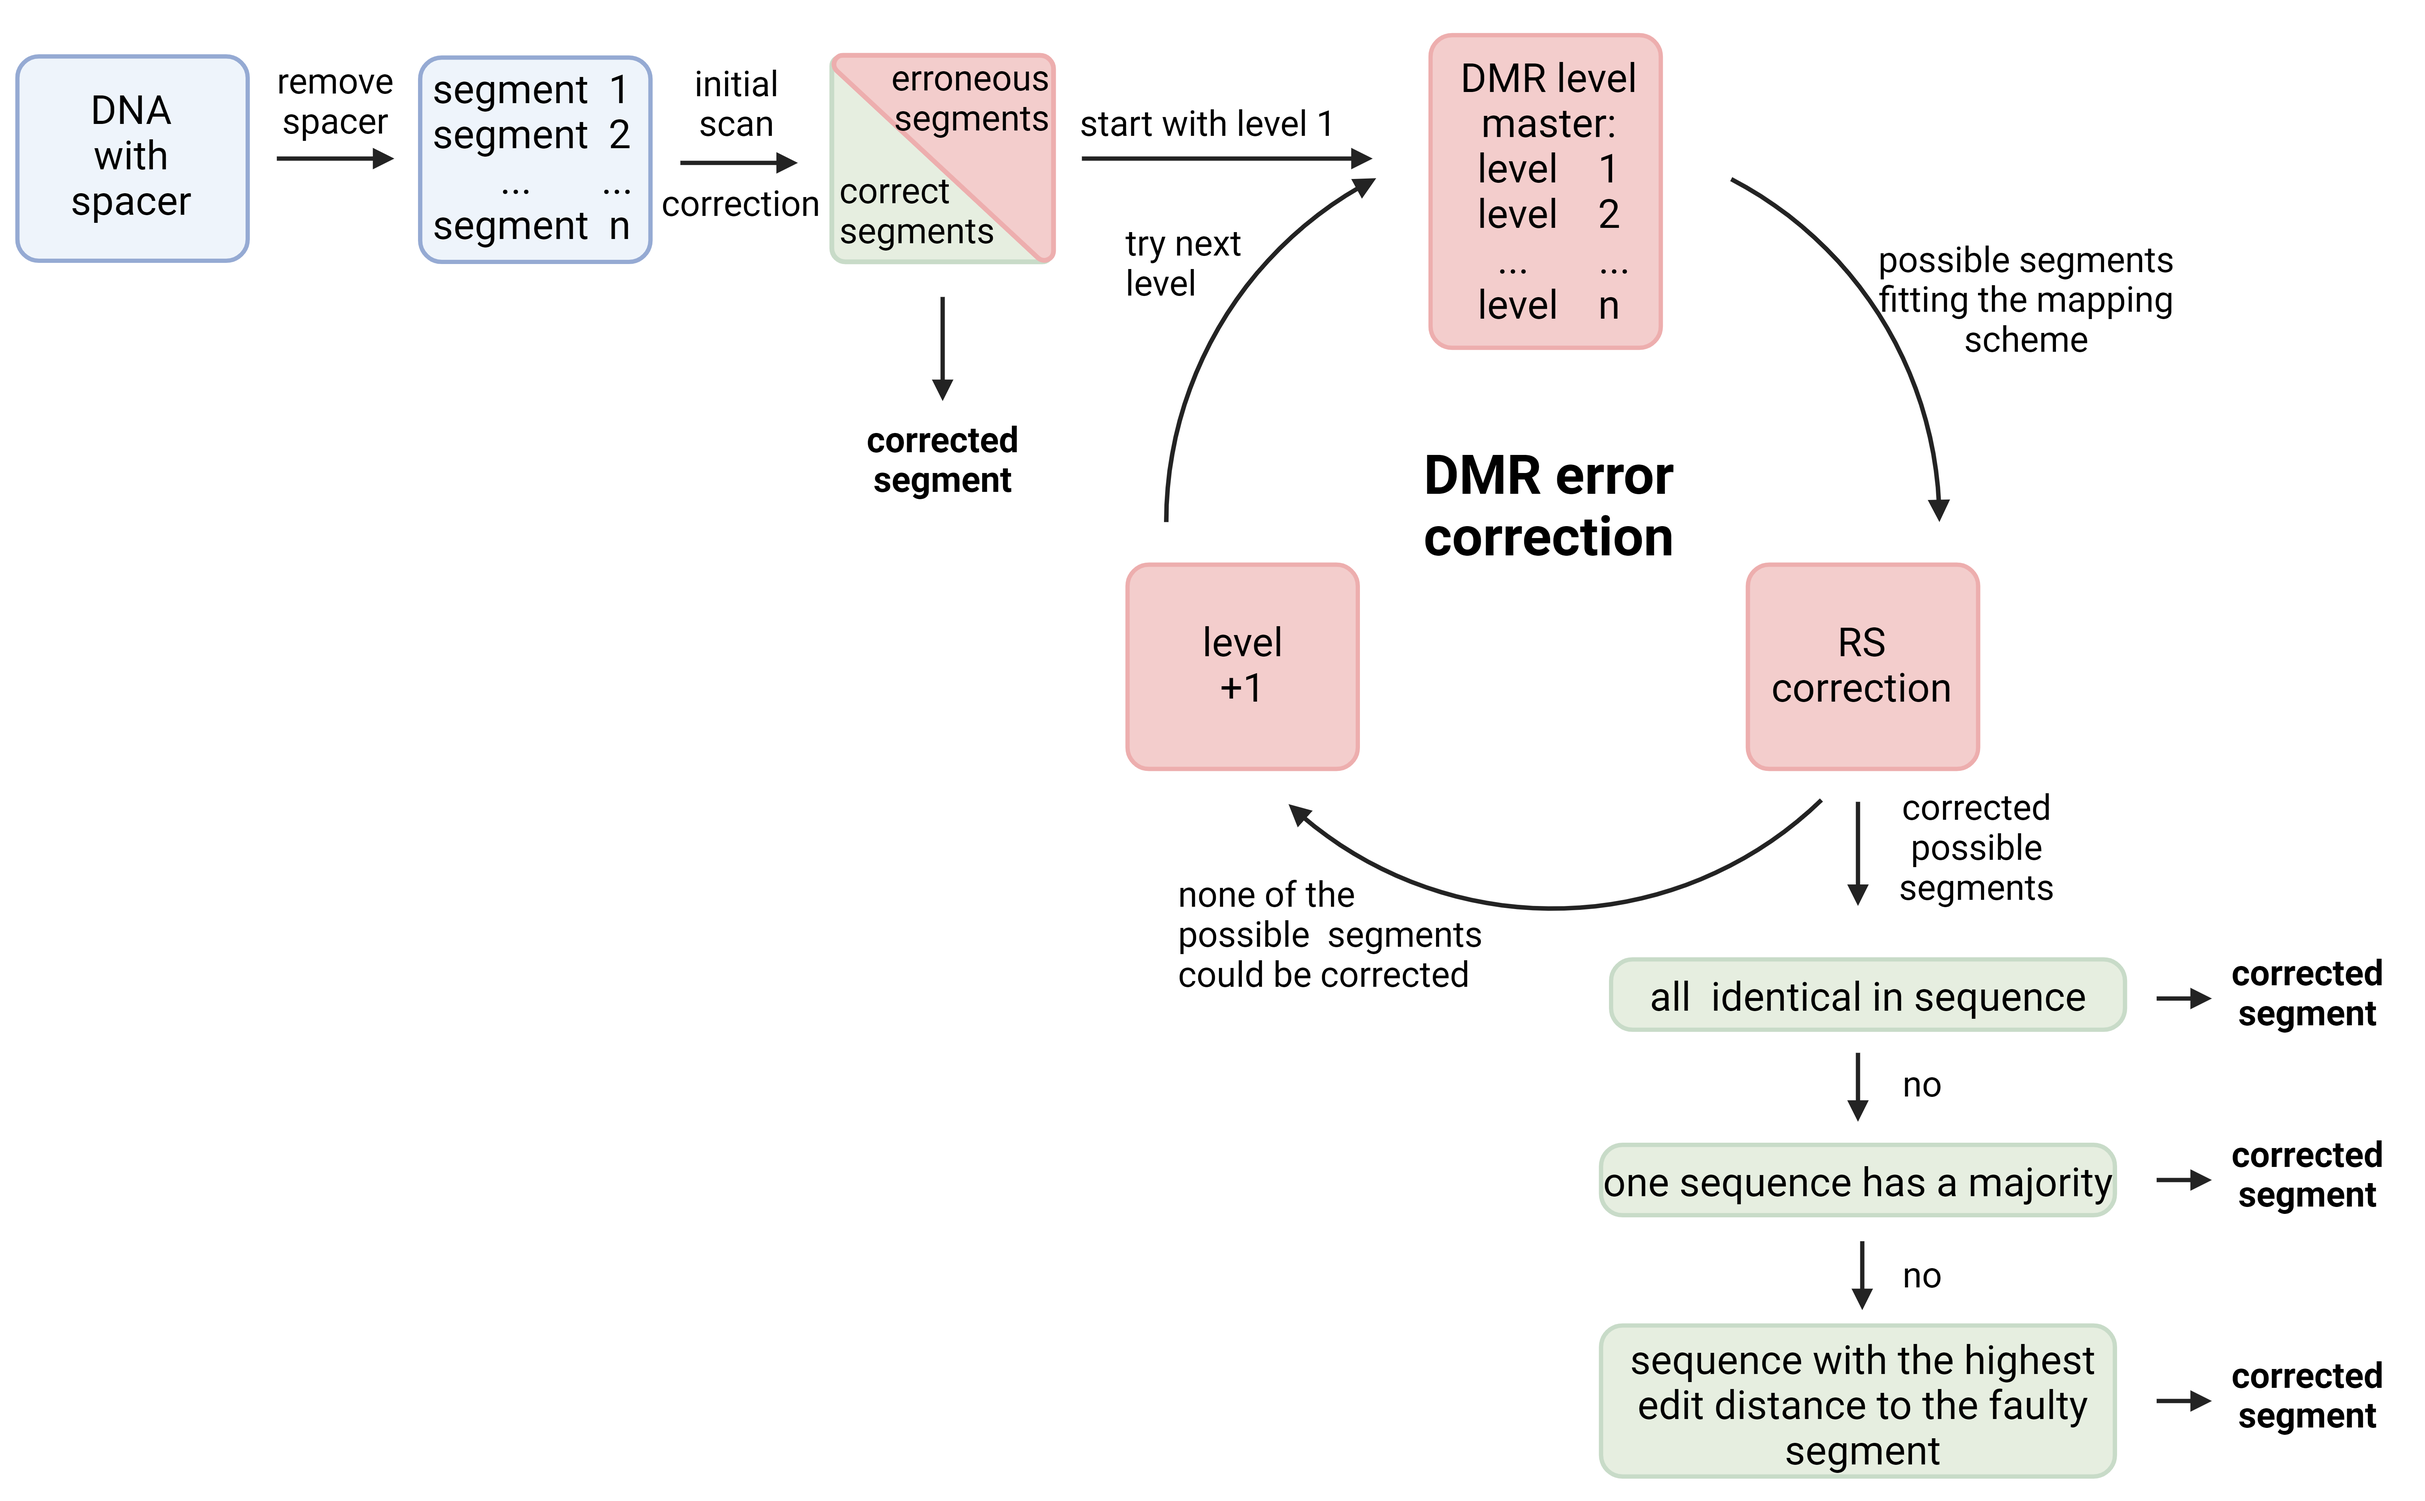
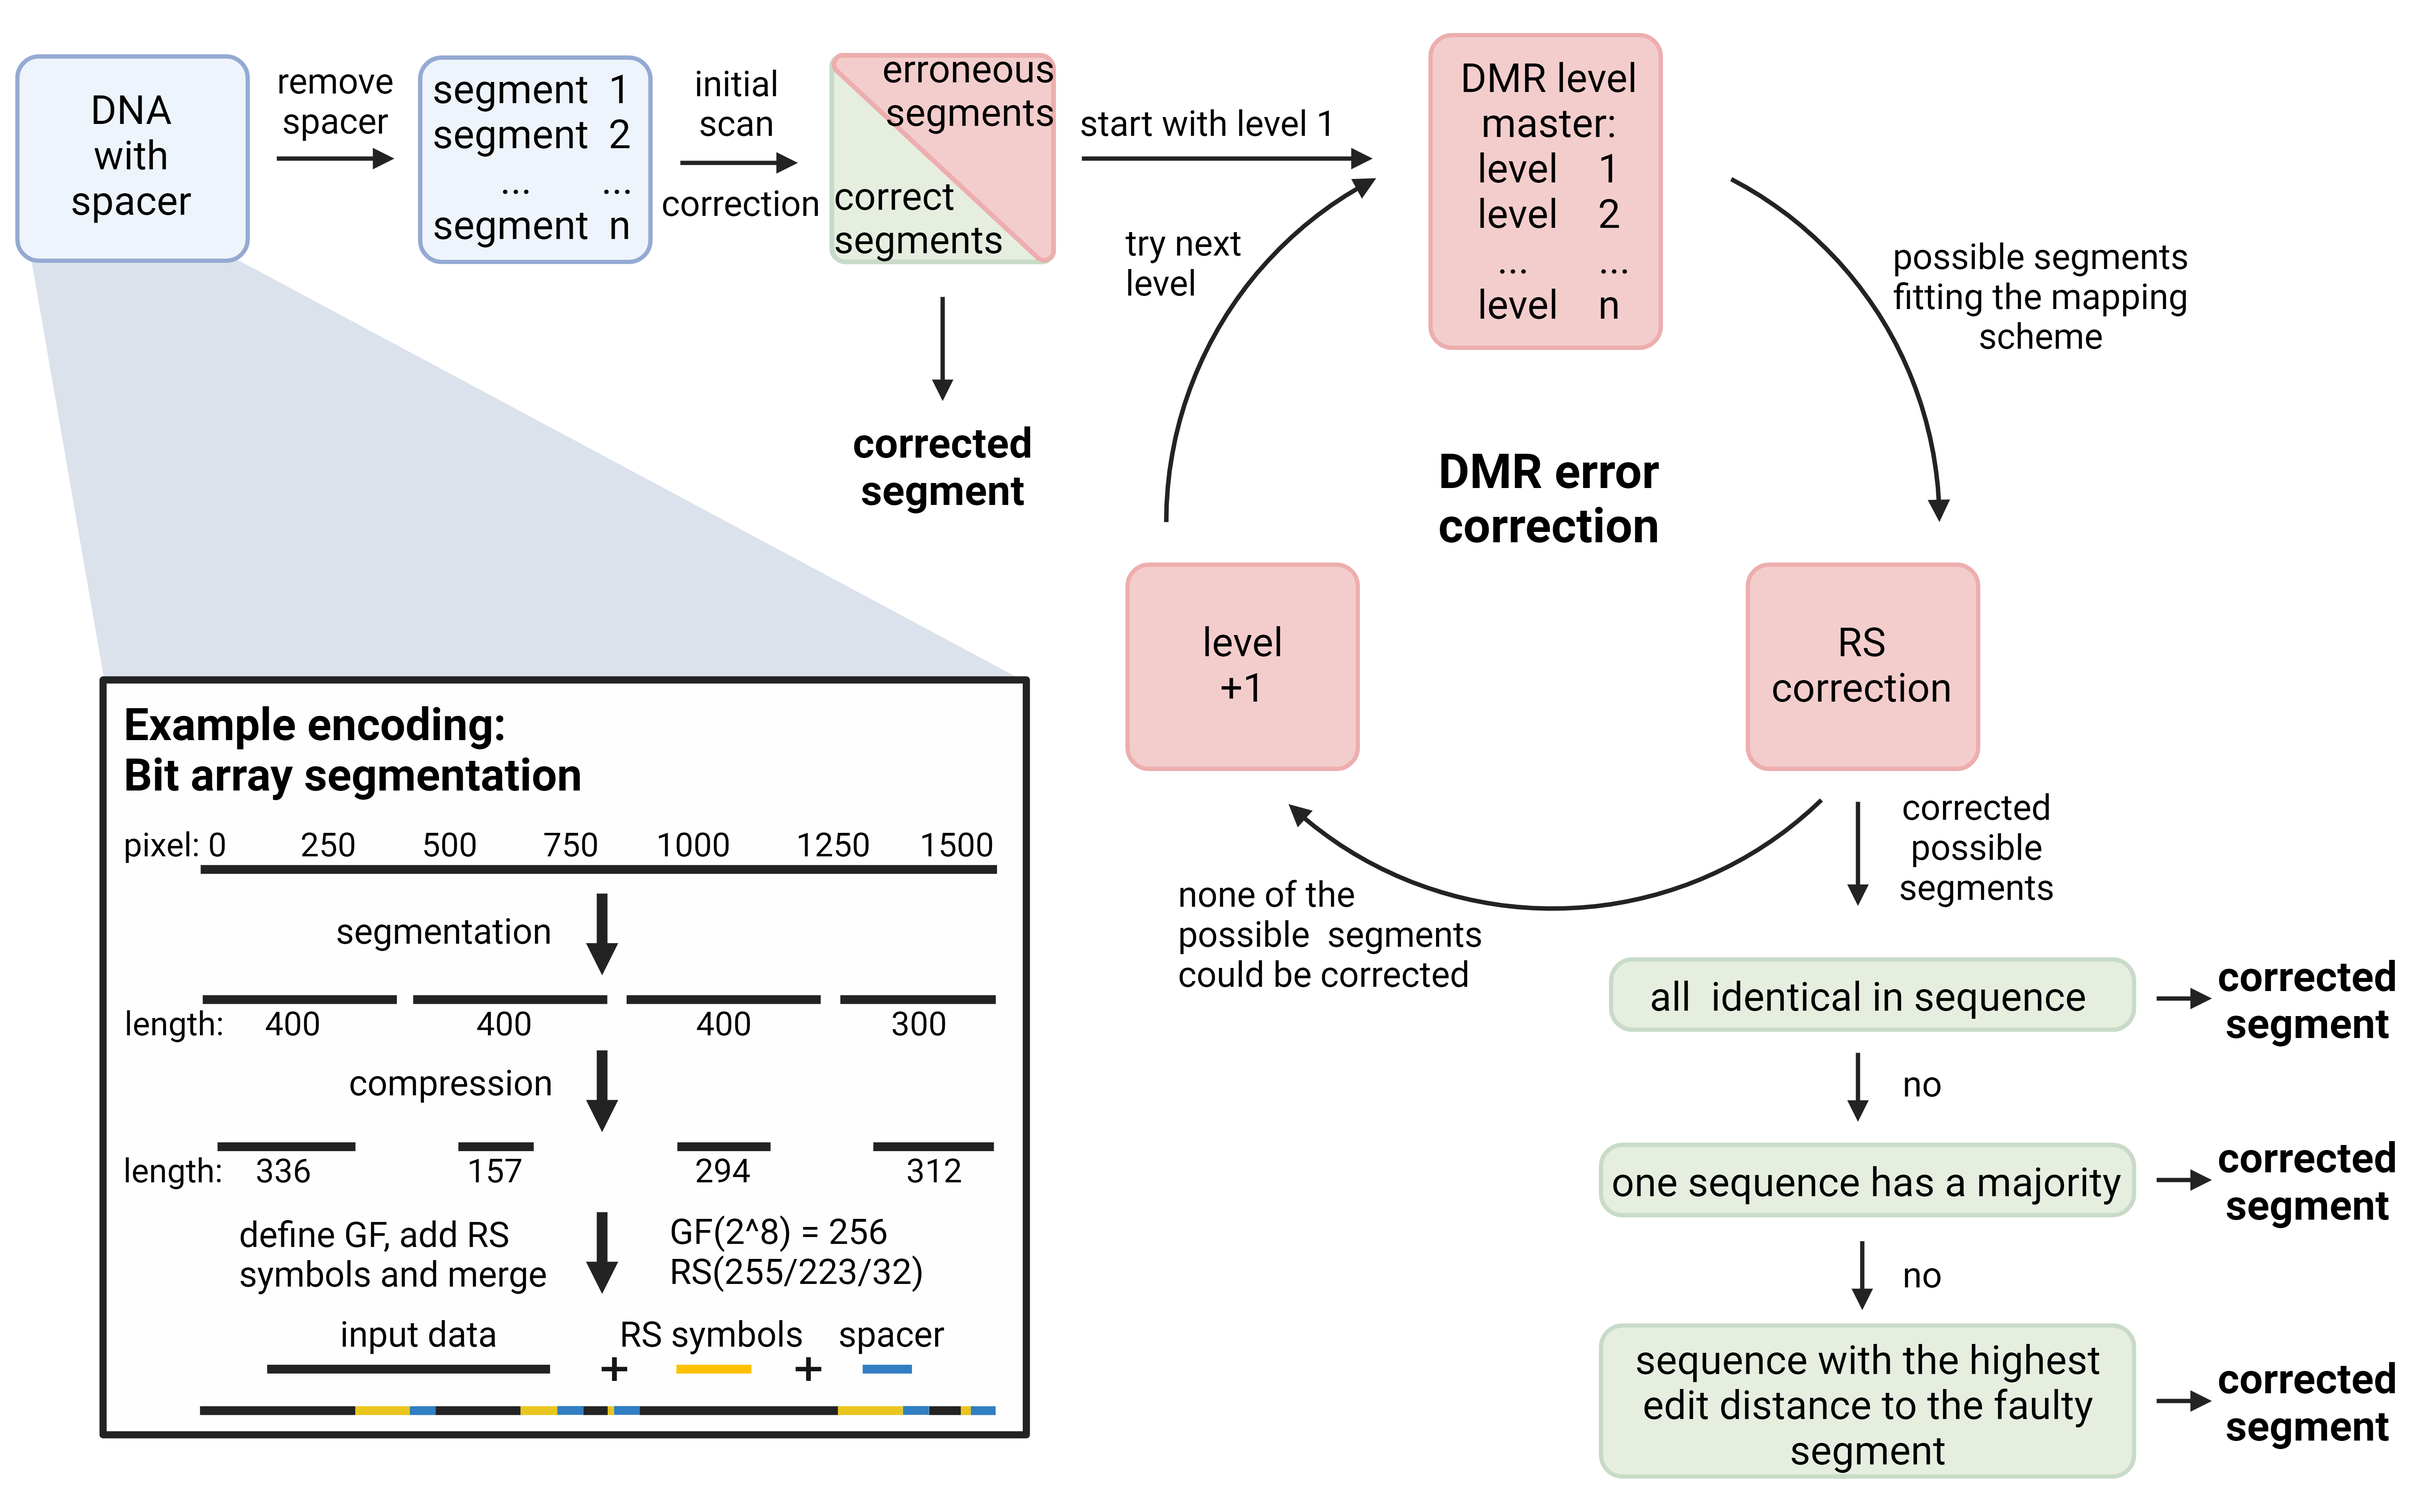
Update

diff --git a/paper.md b/paper.md
@@ -12,13 +12,11 @@ authors:
     equal-contrib: true
     affiliation: 1 
   - name: Babak Saremi
-    corresponding: true 
+    equal-contrib: true
     affiliation: 1
   - name: Omar El Menuawy
-    corresponding: true 
     affiliation: 1
   - name: Tamara Hadzic
-    corresponding: true 
     affiliation: 1
   - name: Lena Wiese
     corresponding: true 
@@ -36,8 +34,8 @@ bibliography: paper.bib
 
 The amount of generated data has multiplied rapidly in recent years. Conventional storage methods will eventually reach their limits and may no longer 
 be sufficient to store the amount of data. Therefore, a new long-term storage method that can primarily store archival data is needed in order to be able 
-to store the increasing amount of data in the coming years. 
-DNA offers the advantages of long-term storage and storage density, causing the scientific community to attempt to make DNA usable as a storage method. 
+to store the increasing amount of data in the coming years. DNA offers the advantages of long-term storage, high storage density and 
+low energetic cost, causing the scientific community to attempt to make DNA usable as a storage method. 
 This program contains the coding and error correction procedure of our self-developed "dynamic mapping rule" DMR method for storing data in DNA. 
 The error correction of the method is based on the comparison of the faulty sequence with the mapping scheme and a level-based correction, which specifically 
 addresses the known locations where the mapping does not match. By combining this with the Reed Solomon (RS) code, the valid segments of the DMR correction can 
@@ -61,12 +59,17 @@ Blawat et. al [@Blawat:2016] use RS within their developed correction methods.
 
 For efficient decoding of data, it is necessary to determine an optimal correction method. This requires different methods to be developed, tested and 
 compared with each other. For this reason, we developed the "dynamic mapping rule" (DMR) method, which provides coding and decoding including error 
-correction of data. The method is based on a mapping table, which is used for the translation and also gives 
-the dynamic mapping rule its name. With the help of this mapping table, a self-correction of the DNA sequence is achieved. In addition, the coding 
+correction of data. The method is based on a mapping table, which is used for the translation and also gives the dynamic mapping rule its name. 
+With the help of this mapping table, a self-correction of the DNA sequence is achieved. For encoding, the input sequence was divided into segments, 
+translated and reassembled using defined DNA sequences known as spacers. The spacers are placed between the individual segments so that the segments 
+can be separated and corrected during decoding using the spacer sequences. The selection of the segment size is variable, but it is kept small 
+so that the correction with DMR works better and the runtime is reduced. In addition, the coding 
 was combined with RS so that the correction with the DMR scheme can be validated with the help of RS and thus leads to a better correction than the 
-stand-alone use of DMR or RS. In addition, the use of the DMR scheme offers the possibility to localize incorrect areas of the DNA by comparison with the
-mapping possibilities and thus carry out targeted corrective procedures at the affected sites. This should make it possible to correct substitution as well 
-as insertion and deletion errors. 
+stand-alone use of DMR or RS. Because RS can only correct a certain number of errors, which depends on the encoded error correction symbols, it is not able 
+to correct errors if the maximum error limit is exceeded. However, the use of DMR enables the correction of error overflows and ensures that the number of 
+errors remains within the correction limits of RS, thus restoring RS functionality. Furthermore, the use of the DMR scheme offers the possibility to localize 
+incorrect areas of the DNA by comparison with the mapping possibilities and thus carry out targeted corrective procedures at the affected sites. 
+This should make it possible to correct substitution as well as insertion and deletion errors. 
 
 The correction in the DMR scheme is executed with different designed levels, which proceed one after the other and try out different methods for the correction.
 In the first level, for example, the incorrect sections are determined and an attempt is made to replace incorrect bases at precisely these points and thus 
@@ -78,8 +81,9 @@ an optimal correction can be achieved. \autoref{fig:level_design} shows the sche
 
 The current code was developed internally as part of the BIOSYNTH project and is now being published as open software. The current designed levels are only 
 suitable for the correction of substitution errors, but it is possible to extend them for the correction of insertion and deletion errors. 
-The developed DMR method was compared with the RS method by encoding the small Fraunhofer logo with the segmented Bitarray encoding method using different 
-amounts of error-correcting symbols. Substitution errors were then added to the encoded DNA and decoded. A total of 20 trials for DMR and 50 trials for RS 
+The developed DMR method was compared with the RS method by encoding the small Fraunhofer logo with the segmented bit array encoding method using different 
+amounts of error-correcting symbols (example in \autoref{fig:level_design}). Substitution errors were then added to the encoded DNA and decoded. 
+A total of 20 trials for DMR and 50 trials for RS 
 were performed per setting. \autoref{fig:error_correction} shows the results of this comparison and shows that the correction with the DMR scheme 
 produces higher edit distances than the correction with RS, which proves the more effective correction of substitution errors. 
 
@@ -90,8 +94,8 @@ produces higher edit distances than the correction with RS, which proves the mor
 and incorrect sequences. The incorrect segments then enter the DMR correction process. The levels that are passed through attempt to create segments that match 
 the mapping scheme, these segments are then verified with RS. If the check with RS does not work, an attempt is made to correct the incorrect segment with the 
 next level. If the check works, all corrected possible segments are analysed. If they are all the same or one segment has the majority, it is accepted as 
-corrected. If none of the segments stand out by majority, the segment with the greatest similarity to the incorrect segment is assumed to be corrected.
-\label{fig:level_design}](dmr_level_design.png)
+corrected. If none of the segments stand out by majority, the segment with the greatest similarity to the incorrect segment is assumed to be corrected. 
+Created with BioRender.com \label{fig:level_design}](dmr_level_design.png)
 
 ![Comparison of DMR and RS correction with different settings and error rates of the bit array segmentation coding method. The simulation of the DMR correction
 is shown on the left and was performed with 20 trials. The simulation with RS is shown on the right and was performed with 50 trials. In both diagrams, fully 
